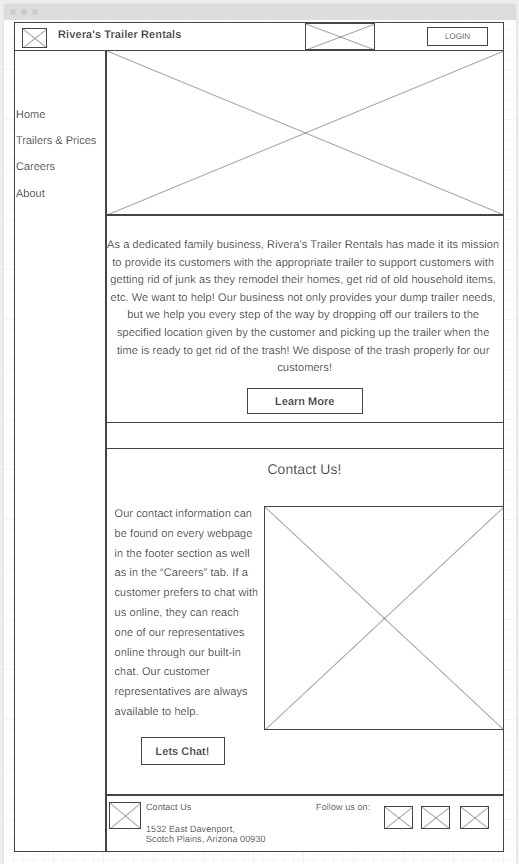
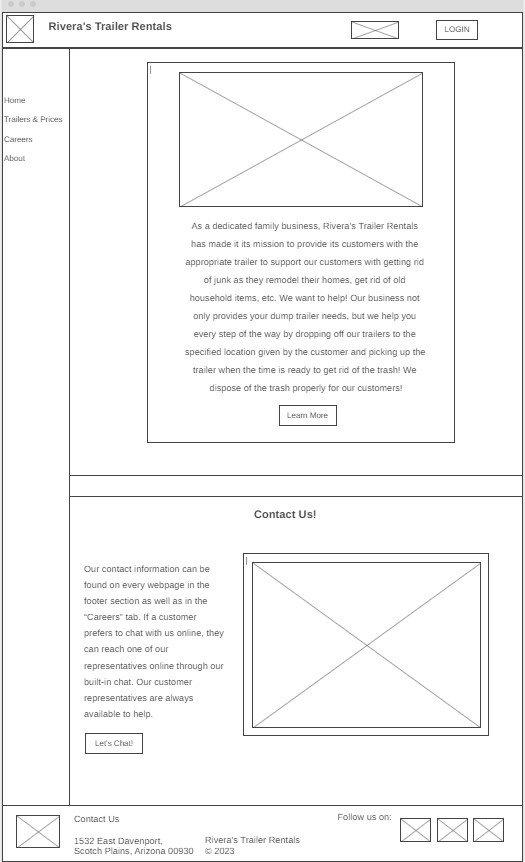
final changes to home page

diff --git a/trailer-rental/styles/style.css b/trailer-rental/styles/style.css
@@ -198,6 +198,7 @@ footer #footer-grid .follow-us {
   padding: 2%;
   border-radius: 5px;
   margin-top: 10%;
+  margin-bottom: 10%;
 }
 
 #background-home {
@@ -234,7 +235,7 @@ footer #footer-grid .follow-us {
 }
 
 #second-2-home #second-paragraph {
-  text-align: center;
+  text-align: left;
 }
 
 #second-2-home #second-paragraph .book {
